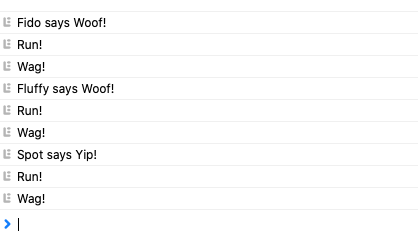
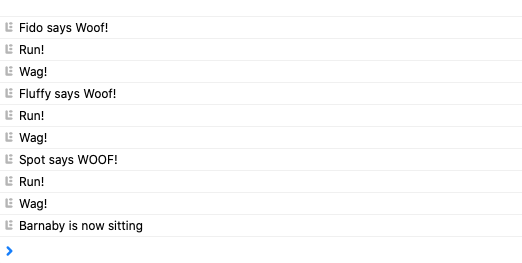
code

diff --git a/dogs.js b/dogs.js
@@ -42,4 +42,12 @@ spot.bark();
 spot.run();
 spot.wag();
 
+var barnaby = new Dog("Barnaby", "Basset Hound", 55);
+
+Dog.prototype.sit = function() {
+    console.log(this.name + " is now sitting");
+};
+
+barnaby.sit();
+
 //console.log(Dog)

diff --git a/robots.js b/robots.js
@@ -36,4 +36,6 @@ robby.blinkLights();
 console.log(rosie.name + " was made by " + rosie.maker + " in " + rosie.year + " and is owned by " + rosie.owner);
 rosie.cleanHouse();
 
+
+
 //console.log(rosie)
